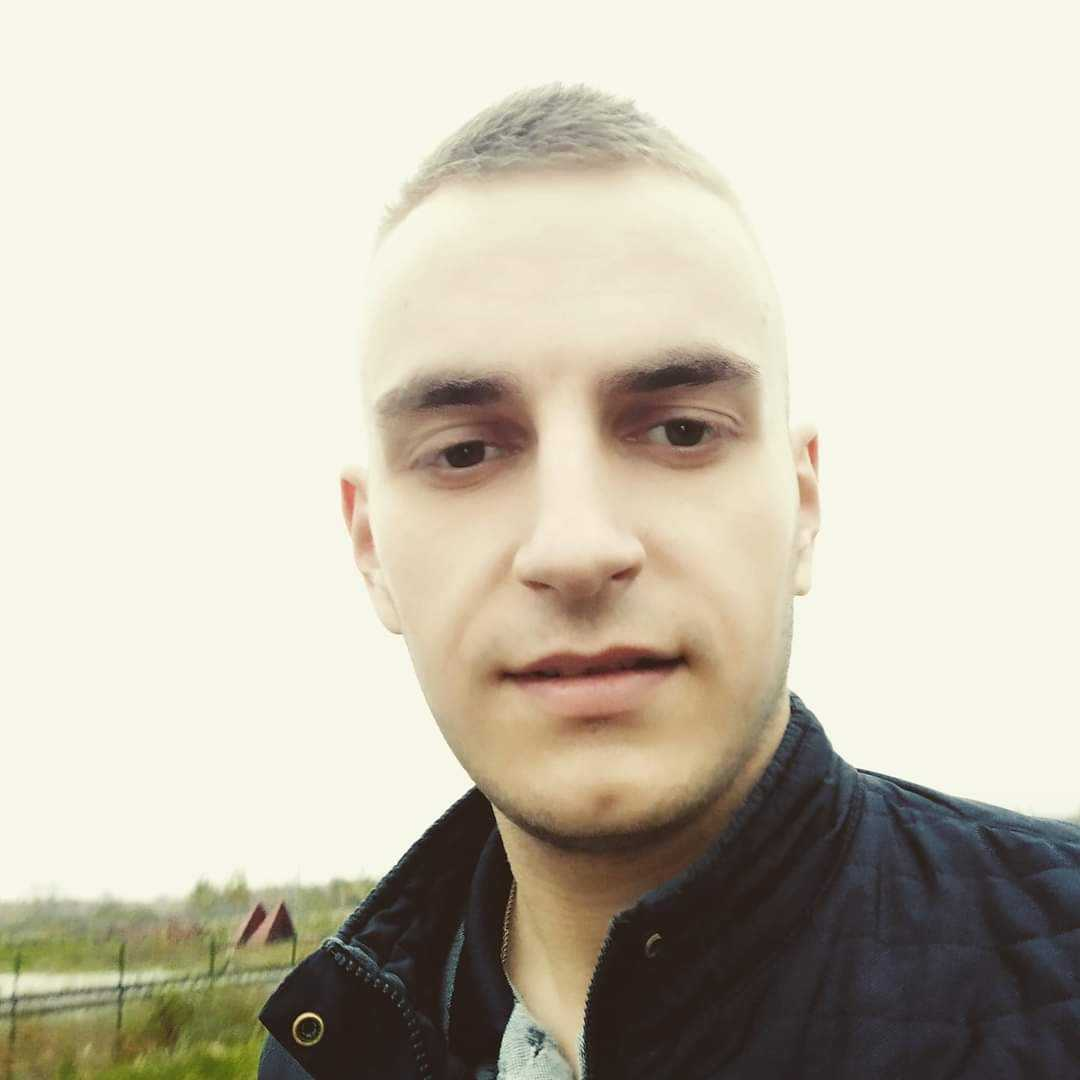
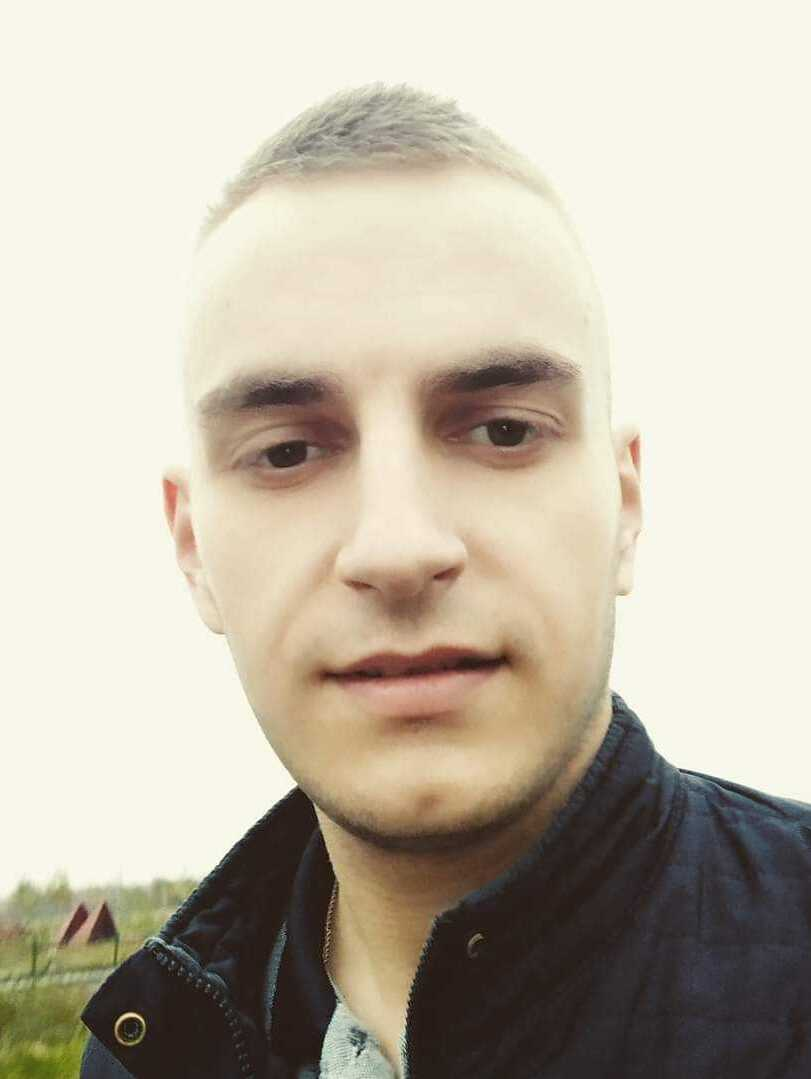
add

Changed region(s): [[0.0, 0.0612, 0.6473, 1.0], [0.6782, 0.3364, 1.0, 0.9175], [0.8015, 0.8869, 0.8323, 0.9175]]

diff --git a/src/partials/footer.html b/src/partials/footer.html
@@ -82,7 +82,7 @@
                       <li class="team-list__item">
                         <img
                           class="team-list__photo"
-                          src="https://ca.slack-edge.com/T03HFSPVCDP-U03HJMQ58U9-30b9b8ff8302-512"
+                          src="./images/oleg.jpg"
                           width="152"
                           alt="Team member - Oleg"
                         />
